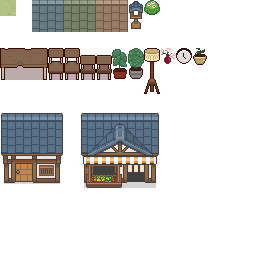
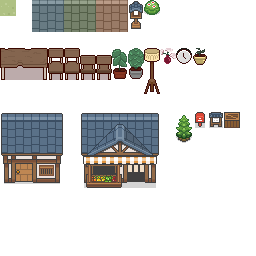
Use available native village accessories beside homes and walking lanes

Changed region(s): [[0.6875, 0.4375, 0.9375, 0.5625]]

diff --git a/src/data/outdoorLayout.ts b/src/data/outdoorLayout.ts
@@ -60,6 +60,7 @@ export const STREET_PLANS: Record<string, StreetPlan> = {
       ['fence', 2, 33], ['fence', 3, 33], ['fence', 4, 33], ['fence', 10, 33], ['fence', 11, 33],
       ['flowers', 5, 34], ['flowers', 6, 34], ['flowers_lav', 12, 34], ['flowers_lav', 13, 34],
       ['sakura', 8, 34], ['tree', 19, 35],
+      ['village_pine', 8, 29], ['village_pine', 24, 35],
       ['bench', 11, 36], ['pot_cream', 14, 36],
       ['street_lamp_l', 8, 38], ['street_lamp_l', 21, 38], ['street_lamp_l', 32, 38],
       // Harbour: cargo at the fishing houses, clear deck and fishing stations.
@@ -94,6 +95,7 @@ export const STREET_PLANS: Record<string, StreetPlan> = {
       ['crate', 36, 6], ['barrel', 38, 6], ['village_net', 24, 13], ['sack', 44, 6],
       ['lantern_cream', 37, 13], ['lantern_cream', 40, 13],
       ['tree', 30, 2], ['tree', 38, 2], ['pot_rose', 39, 6],
+      ['village_pine', 38, 5],
       ['bush_flower', 30, 4],
       ['reeds', 1, 14], ['reeds', 12, 14], ['reeds', 30, 14], ['reeds', 47, 14],
       ['sign_plaza_up', 17, 2], ['sign_lighthouse', 5, 6], ['puddle', 12, 12, 'rain'],
@@ -133,6 +135,7 @@ export const STREET_PLANS: Record<string, StreetPlan> = {
       ['pot_rose', 20, 19], ['pot_cream', 13, 19],
       ['flowers_lav', 22, 18], ['flowers_lav', 23, 18],
       ['bush_flower', 22, 7], ['bush', 37, 5],
+      ['village_pine', 23, 8],
       ['sakura', 6, 14], ['sakura', 3, 22], ['sakura', 6, 23], ['sakura', 9, 22],
       ['sakura', 18, 23], ['sakura', 21, 22], ['sakura', 4, 24], ['sakura', 8, 24], ['sakura', 17, 24], ['sakura', 22, 24],
       ['flowers', 32, 5], ['flowers_lav', 33, 5], ['flowers', 34, 5],

diff --git a/src/art/cozyAssets.ts b/src/art/cozyAssets.ts
@@ -46,6 +46,8 @@ export function cozyObject(id: string, w: number, h: number, rot: number): HTMLC
       plant_monstera: 'monstera', plant_fern: 'planter', bonsai: 'roundShrub',
       lamp_cream: 'floorLamp', vase_tulips: 'flowerVase', clock: 'clock',
       stonelantern: 'stoneLantern', pot_cream: 'topiary', pot_rose: 'flowerVase',
+      bush: 'roundShrub', bush_flower: 'roundShrub', village_pine: 'villagePine',
+      mailbox: 'villageMailbox', menuboard: 'villageNotice', crate: 'villageWoodbox',
     };
     if (!decor[id]) return null;
     name = decor[id];

diff --git a/src/data/props.ts b/src/data/props.ts
@@ -29,6 +29,7 @@ export const PROPS: Record<string, PropDef> = {
   tree_autumn: P('tree', 1, 1, 44, 56, '#d08a4f', '', { anim: 'sway' }),
   sakura: P('sakura', 1, 1, 44, 56, '', '', { anim: 'sway' }),
   pine: P('pine', 1, 1, 32, 50, '#46a846'),
+  village_pine: P('pine', 1, 1, 16, 32, '#46a846'),
   bush: P('bush', 1, 1, 18, 15, '#46a846', '#46a846'),
   bush_berry: P('bush', 1, 1, 18, 15, '#46a846', '#e0424f'),
   bush_flower: P('bush', 1, 1, 18, 15, '#46a846', '#f7f0f4'),

diff --git a/src/art/cozyFrames.ts b/src/art/cozyFrames.ts
@@ -113,5 +113,29 @@ export const COZY_FRAMES = {
     "y": 112,
     "w": 80,
     "h": 76
+  },
+  "villagePine": {
+    "x": 176,
+    "y": 112,
+    "w": 16,
+    "h": 32
+  },
+  "villageMailbox": {
+    "x": 192,
+    "y": 112,
+    "w": 16,
+    "h": 16
+  },
+  "villageNotice": {
+    "x": 208,
+    "y": 112,
+    "w": 16,
+    "h": 16
+  },
+  "villageWoodbox": {
+    "x": 224,
+    "y": 112,
+    "w": 16,
+    "h": 16
   }
 } as const;

diff --git a/scripts/build-exterior-details.py b/scripts/build-exterior-details.py
@@ -1,0 +1,36 @@
+"""Add the demo's small outdoor accessories to free space in the existing cozy atlas."""
+from pathlib import Path
+from zipfile import ZipFile
+from io import BytesIO
+from PIL import Image
+import hashlib
+import json
+import re
+
+root = Path(__file__).resolve().parents[1]
+name = 'vectoraith_tileset_16x16_buildings_japanese_traditional_demo.png'
+with ZipFile(root / 'ASSETS DESCARGADOS/vectoraith_tileset_buildings_japanese_traditional_DEMO.zip') as archive:
+    raw = archive.read(name)
+source = Image.open(BytesIO(raw)).convert('RGBA')
+atlas_path = root / 'src/assets/cozy-town/atlas.png'
+atlas = Image.open(atlas_path).convert('RGBA')
+frames_path = root / 'src/art/cozyFrames.ts'
+frames = json.loads(re.search(r'export const COZY_FRAMES = (\{.*\}) as const;', frames_path.read_text(), re.S)[1])
+provenance_path = root / 'src/assets/cozy-town/provenance.json'
+provenance = json.loads(provenance_path.read_text())
+crops = {
+    'villagePine': ([80, 64, 96, 96], [176, 112]),
+    'villageMailbox': ([80, 48, 96, 64], [192, 112]),
+    'villageNotice': ([64, 16, 80, 32], [208, 112]),
+    'villageWoodbox': ([80, 32, 96, 48], [224, 112]),
+}
+for key, (rect, position) in crops.items():
+    image = source.crop(rect)
+    atlas.paste(image, position)
+    frames[key] = dict(x=position[0], y=position[1], w=image.width, h=image.height)
+    provenance = [p for p in provenance if p['frame'] != key]
+    provenance.append(dict(frame=key, source=name, crop=rect, sha256=hashlib.sha256(raw).hexdigest(), author='VectoRaith'))
+atlas.save(atlas_path, optimize=True)
+frames_path.write_text('/** Native crops from the supplied VectoRaith demo and Bitglow pack. See docs/asset-credits.md. */\n'
+                       + 'export const COZY_FRAMES = ' + json.dumps(frames, indent=2) + ' as const;\n')
+provenance_path.write_text(json.dumps(provenance, indent=2) + '\n')
